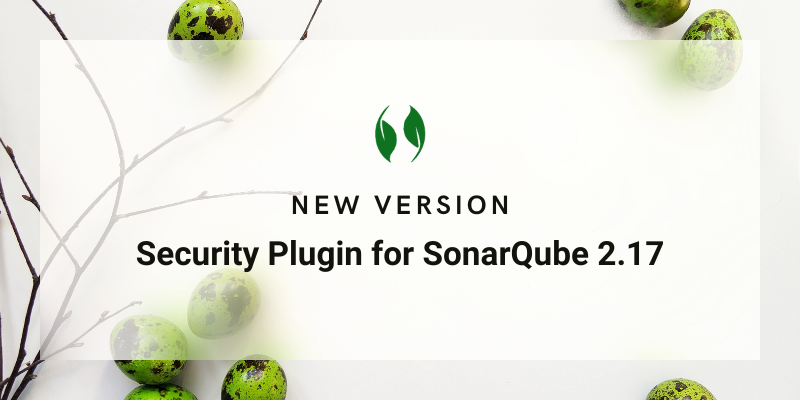
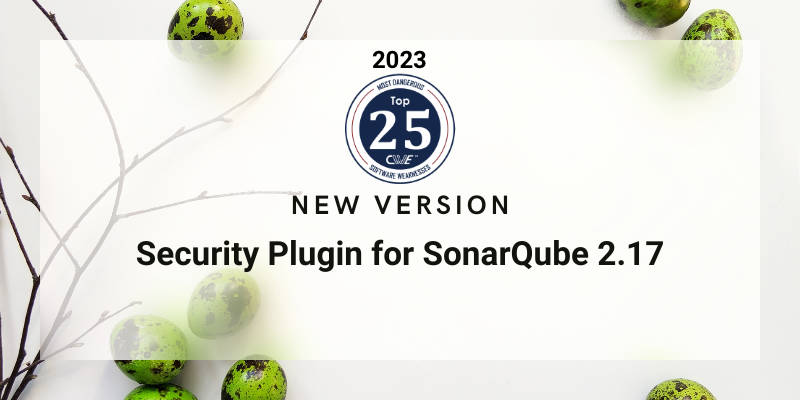
improve blog post for new security version

Changed region(s): [[0.4375, 0.12, 0.5625, 0.48]]

diff --git a/_posts/2023-09-04-new-release-security-plugin_es.md b/_posts/2023-09-04-new-release-security-plugin_es.md
@@ -1,7 +1,7 @@
 ---
 layout: post_es
-title: 'Añadido el Top 25 2023 en SonarQube Security Plugin'
-description: El CWE Top 25 2023 ahora disponible para el plugin Security.
+title: '¡Ya disponible CWE Top 25 2023!'
+description: CWE Top 25 2023 ahora disponible para Security para SonarQube
 
 permalink: nueva-version-security-plugin-2-17
 english: new-release-security-plugin-2-17
@@ -12,25 +12,49 @@ cover: /img/posts/2023-07-25-security-plugin-cwe-measures.png
 
 Hemos lanzado la versión 2.17 del plugin de seguridad para SonarQube.
 
-La nueva versión añade las debilidades de software más peligrosas en el año 2023 como top 25 de CWE.
+**La nueva versión añade las debilidades de software más peligrosas en el año 2023 como top 25 de CWE, 
+tanto para la página de la interfaz de usuario en SonarQube, como para la generación de PDF.**
+
+Se publicó la última lista de las 25 debilidades de software más peligrosas CWE de 2023 (CWE Top 25)
+el 21 de junio de 2023, en el [sitio web de CWE](https://cwe.mitre.org/top25/archive/2023/2023_top25_list.html).
+
+El CWE Top 25 se calcula analizando datos públicos de vulnerabilidad en el Instituto Nacional de Estándares y
+Base de datos nacional de vulnerabilidades (NVD) de EE. UU. de Technology (NIST) para mapear la causa raíz de las 
+debilidades de CWE de los dos últimos años. Estas debilidades conducen a graves vulnerabilidades en 
+el software. Un atacante a menudo puede explotar estas vulnerabilidades para tomar el control de un sistema 
+afectado, robar datos o impedir que las aplicaciones funcionen.
+
+El CWE Top 25 de 2023 también incorpora datos de debilidad actualizados para vulnerabilidades y 
+exposiciones comunes (CVE®) recientes, a partir de registros del conjunto de datos que forman parte de la Agencia de Seguridad de 
+Infraestructura y Ciberseguridad (CISA) y su Catálogo de vulnerabilidades (KEV).
+
 <br>
 
-[Comprueba este proyecto de ejemplo en nuestra instancia de demostración>](http://sonarqube.bitegarden.com/web_api/api/bitegarden/security)
+<img width="100%" src="/img/posts/2023-09-04-cwe-top-25-2023.png">
+<div class="text-center">2023 CWE Top 25 de MITRE</div>
+<br>
+
+El análisis de tendencias sobre datos de vulnerabilidad permite a las organizaciones tomar mejores decisiones 
+en la gestión de vulnerabilidades. Muchos profesionales que se ocupan del software encontrarán en el CWE Top 25 una solución práctica y
+recurso conveniente para ayudar a mitigar el riesgo.
+
+[Comprueba este proyecto de ejemplo en nuestra instancia de demostración>](http://sonarqube-latest.bitegarden.com/project/extension/bitegardenSecurity/cwe_report_page?id=org.owasp.webgoat%3Awebgoat&qualifier=TRK)
 
 <br>
 
 ## Nuevas funcionalidades y cambios:
 
 -- Añadido el CWE Top 25 del año 2023.
+
 <br>
 
 ## Descarga la nueva versión
 
-El Security Plugin ya está disponible para descarga a través del [Universal Plugin Manager](/es/sonarqube-upm)  o desde la página de [descarga del producto](/es/sonarqube-security-trial-form).
+Security Plugin para SonarQube 2.17 ya está disponible para descarga a través del [Universal Plugin Manager](/es/sonarqube-upm)  o desde la página de [descarga del producto](/es/sonarqube-security-trial-form).
 
 **¡Obtén tu prueba gratuita y verifica tu código hoy mismo!**
 
-<a href = "/es/sonarqube-security#product-block-center" class = "btn btn-primary btn-call-to-action fancybox" style = "font-weight: bold; font-size: 16px; text-transform : mayúsculas; "> Inicia tu prueba gratuita > </a>
+<a href = "/es/sonarqube-security-trial-form" class = "btn btn-primary btn-call-to-action fancybox" style = "font-weight: bold; font-size: 16px; text-transform : mayúsculas; "> Inicia tu prueba gratuita > </a>
 
 <br/>
 

diff --git a/_posts/2023-09-04-new-release-security-plugin_en.md b/_posts/2023-09-04-new-release-security-plugin_en.md
@@ -1,7 +1,7 @@
 ---
 layout: post
-title: '2023 CWE Top 25 feature added to SonarQube Security Plugin'
-description: The CWE Top 25 2023 now available in Security Plugin.
+title: '2023 CWE Top 25 is now available!'
+description: The CWE Top 25 2023 now available in Security Plugin for SonarQube.
 
 permalink: new-release-security-plugin-2-17
 spanish: nueva-version-security-plugin-2-17
@@ -10,26 +10,47 @@ italian: nuova-versione-security-plugin-2-17
 cover: /img/posts/2023-07-25-security-plugin-cwe-measures.png
 ---
 
-We have released version 2.17 of the Security Plugin for SonarQube.
+We have released a new version (2.17) of the Security Plugin for SonarQube&trade;.
 
-The new version adds the most dangerous software weaknesses at 2023 as top 25 of CWE.
+**The version adds support for CWE Top 25 (2023) for both sections, SonarQube UI and PDF generation.**
+
+The latest “2023 Common Weakness Enumeration (CWE) Top 25 Most Dangerous Software Weaknesses” (CWE Top 25) list was released 
+on June 21, 2023, on the [CWE website](https://cwe.mitre.org/top25/archive/2023/2023_top25_list.html).
+
+The CWE Top 25 is calculated by analyzing public vulnerability data in the National Institute of Standards and 
+Technology’s (NIST) U.S. National Vulnerability Database (NVD) for root cause mappings to CWE weaknesses for the 
+previous two calendar years. These weaknesses lead to serious vulnerabilities in software. An attacker can often 
+exploit these vulnerabilities to take control of an affected system, steal data, or prevent applications from working.
+
+The 2023 CWE Top 25 also incorporates updated weakness data for recent Common Vulnerabilities and Exposures (CVE®) 
+records in the dataset that are part of Cybersecurity and Infrastructure Security Agency (CISA)’s Known Exploited 
+Vulnerabilities Catalog (KEV).
+
+<img width="100%" src="/img/posts/2023-09-04-cwe-top-25-2023.png">
+<div class="text-center">2023 CWE Top 25 from MITRE</div>
 <br>
 
-[Check out this example project on our demo instance>](http://sonarqube.bitegarden.com/web_api/api/bitegarden/security)
+Trend analysis on vulnerability data like this enables organizations to make better investment and policy decisions 
+in vulnerability management. Many professionals who deal with software will find the CWE Top 25 a practical and 
+convenient resource to help mitigate risk.
+
+[Check out this sample project on our demo instance>](http://sonarqube-latest.bitegarden.com/project/extension/bitegardenSecurity/cwe_report_page?id=org.owasp.webgoat%3Awebgoat&qualifier=TRK)
 
 <br>
 
 ## New features and changes:
 
--- Added 2023 CWE Top 25.
+-- Added support for 2023 CWE Top 25.
+
 <br>
 
 ## Download the new version
 
 The Security Plugin is now available for download via the [Universal Plugin Manager](/sonarqube-upm) or from the [product download](/sonarqube-security-trial-form) page.
+
 **Get your free trial and verify your code today!**
 
-<a href = "/sonarqube-security#product-block-center" class = "btn btn-primary btn-call-to-action fancybox" style = "font-weight: bold; font-size: 16px; text-transform : mayúsculas; "> Start your free trial> </a>
+<a href = "/sonarqube-security-trial-form" class = "btn btn-primary btn-call-to-action fancybox" style = "font-weight: bold; font-size: 16px; text-transform : mayúsculas; "> Start your free trial > </a>
 
 <br/>
 

diff --git a/_posts/2023-09-04-new-release-security-plugin_it.md b/_posts/2023-09-04-new-release-security-plugin_it.md
@@ -13,9 +13,30 @@ cover: /img/posts/2023-07-25-security-plugin-cwe-measures.png
 Abbiamo rilasciato la versione 2.17 del plugin di sicurezza per SonarQube.
 
 La nuova versione aggiunge le debolezze software più pericolose al 2023 come top 25 di CWE.
+
+È stato pubblicato l'ultimo elenco "2023 Common Weakness Enumeration (CWE) Top 25 Most Dangerous Software Weaknesses" (CWE Top 25)
+il 21 giugno 2023, sul [sito web CWE](https://cwe.mitre.org/top25/archive/2023/2023_top25_list.html).
+
+La CWE Top 25 viene calcolata analizzando i dati pubblici sulla vulnerabilità nel National Institute of Standards e
+Database nazionale delle vulnerabilità (NVD) statunitense di Technology (NIST) per la mappatura delle cause principali dei punti deboli del CWE per
+due anni solari precedenti. Queste debolezze portano a gravi vulnerabilità nel software. Un attaccante può spesso
+sfruttare queste vulnerabilità per assumere il controllo di un sistema interessato, rubare dati o impedire il funzionamento delle applicazioni.
+
+La Top 25 CWE del 2023 incorpora anche dati aggiornati sui punti deboli relativi alle recenti vulnerabilità ed esposizioni comuni (CVE®)
+record nel set di dati che fanno parte del Known Exploited della Cybersecurity and Infrastructure Security Agency (CISA)
+Catalogo delle vulnerabilità (KEV).
+
+<img width="100%" src="/img/posts/2023-09-04-cwe-top-25-2023.png">
+<div class="text-center">Top 25 CWE 2023 da MITRE</div>
 <br>
 
-[Date un'occhiata a questo progetto di esempio sulla nostra istanza demo>](http://sonarqube.bitegarden.com/web_api/api/bitegarden/security)
+L'analisi delle tendenze sui dati sulle vulnerabilità come questa consente alle organizzazioni di prendere migliori decisioni politiche e sugli investimenti
+nella gestione delle vulnerabilità. Molti professionisti che si occupano di software troveranno nella CWE Top 25 una soluzione pratica e
+risorsa conveniente per contribuire a mitigare il rischio.
+
+<br>
+
+[Date un'occhiata a questo progetto di esempio sulla nostra istanza demo>](http://sonarqube-latest.bitegarden.com/project/extension/bitegardenSecurity/cwe_report_page?id=org.owasp.webgoat%3Awebgoat&qualifier=TRK)
 
 <br>
 
@@ -28,9 +49,10 @@ La nuova versione aggiunge le debolezze software più pericolose al 2023 come to
 ## Scarica la nuova versione
 
 Il plugin per la sicurezza è ora disponibile per il download tramite [Universal Plugin Manager](/it/sonarqube-upm) o dalla pagina [download del prodotto](/it/sonarqube-security-trial-form)
+
 **Ottenete la vostra prova gratuita e verificate oggi stesso il vostro codice!**
 
-<a href = "/it/sonarqube-security#product-block-center" class = "btn btn-primary btn-call-to-action fancybox" style = "font-weight: bold; font-size: 16px; text-transform : mayúsculas; "> Iniziare la prova gratuita > </a>
+<a href = "/it/sonarqube-security-trial-form" class = "btn btn-primary btn-call-to-action fancybox" style = "font-weight: bold; font-size: 16px; text-transform : mayúsculas; "> Iniziare la prova gratuita > </a>
 
 <br/>
 
